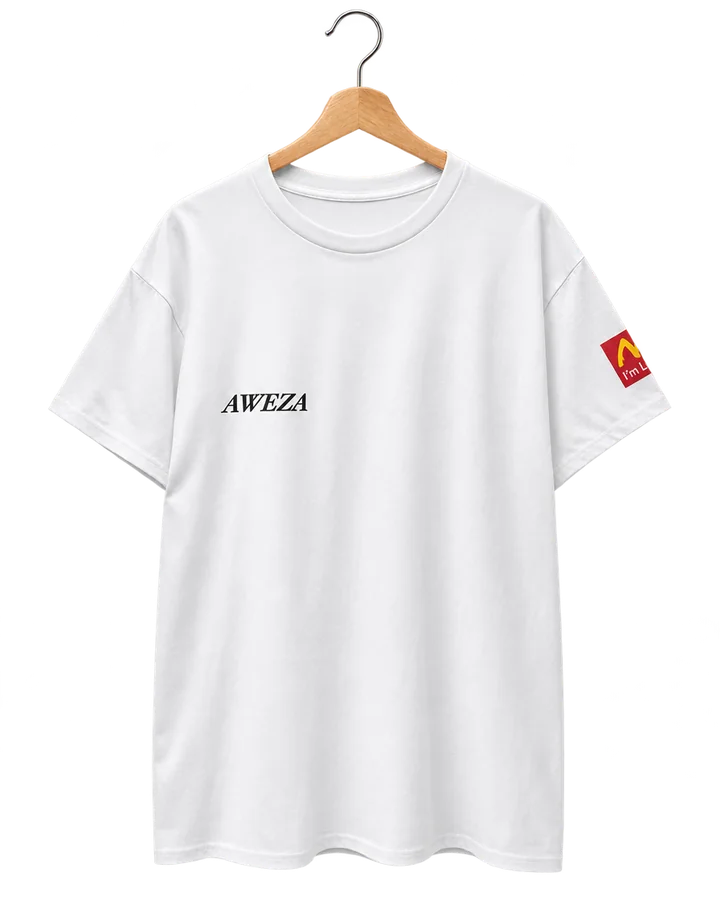
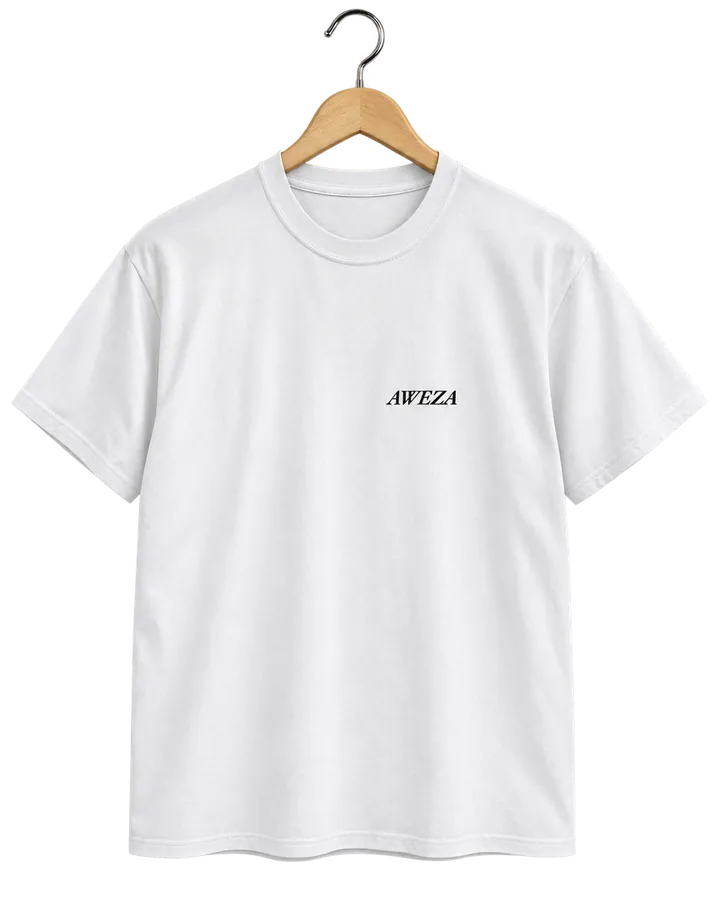
Add Black Out Or Back Out and Time of Your Life tees; refresh Signature Lips
- Two new Printify tees on the shared 3D hanger model: Higgsfield hanging shots (front and back), wrap textures, rail photos
- Signature Lips re-made from its updated Printify mockups (sleeve flag gone); now R450 and in the multi-buy
- Printify variant ids and costs refreshed; sync script maps the new products
- Schema.org list, rail order and docs updated

Claude-Session: https://claude.ai/code/session_01NvykxtFoakGT37DM8pghmL

diff --git a/aweza/index.html b/aweza/index.html
@@ -34,7 +34,7 @@
   <meta name="twitter:image" content="images/brand/og.png">
   <meta name="twitter:image:alt" content="The AWEZA wordmark beside the red lips logo.">
   <script type="application/ld+json">{"@context":"https://schema.org","@type":"Organization","name":"AWEZA","slogan":"Time of your life.","description":"Bold graphic tees designed in South Africa and printed to order.","logo":"images/brand/logo.svg","areaServed":"ZA","sameAs":["https://www.instagram.com/REPLACE_ME","https://www.tiktok.com/@REPLACE_ME","https://www.facebook.com/REPLACE_ME"]}</script>
-  <script type="application/ld+json">{"@context":"https://schema.org","@type":"ItemList","name":"AWEZA graphic tees","itemListElement":[{"@type":"ListItem","position":1,"item":{"@type":"Product","name":"Signature Lips Tee","url":"#/product/signature-lips","image":"images/signature-lips/male-front-5.jpg","brand":{"@type":"Brand","name":"AWEZA"},"offers":{"@type":"Offer","price":"550","priceCurrency":"ZAR","availability":"https://schema.org/InStock"}}},{"@type":"ListItem","position":3,"item":{"@type":"Product","name":"Sweet Cupcake Tee","url":"#/product/sweet-cupcake","image":"images/sweet-cupcake/front.jpg","brand":{"@type":"Brand","name":"AWEZA"},"offers":{"@type":"Offer","price":"450","priceCurrency":"ZAR","availability":"https://schema.org/InStock"}}},{"@type":"ListItem","position":4,"item":{"@type":"Product","name":"CEO of Bad Decisions Tee","url":"#/product/ceo-of-bad-decisions","image":"images/ceo-of-bad-decisions/male-front-5.jpg","brand":{"@type":"Brand","name":"AWEZA"},"offers":{"@type":"Offer","price":"450","priceCurrency":"ZAR","availability":"https://schema.org/InStock"}}},{"@type":"ListItem","position":5,"item":{"@type":"Product","name":"Zero Ex's Tee","url":"#/product/zero-exes","image":"images/zero-exes/male-front-5.jpg","brand":{"@type":"Brand","name":"AWEZA"},"offers":{"@type":"Offer","price":"450","priceCurrency":"ZAR","availability":"https://schema.org/InStock"}}},{"@type":"ListItem","position":6,"item":{"@type":"Product","name":"Captain Save Tee","url":"#/product/captain-save","image":"images/captain-save/male-front-5.jpg","brand":{"@type":"Brand","name":"AWEZA"},"offers":{"@type":"Offer","price":"450","priceCurrency":"ZAR","availability":"https://schema.org/InStock"}}},{"@type":"ListItem","position":7,"item":{"@type":"Product","name":"Need A Hug Tee","url":"#/product/need-a-hug","image":"images/need-a-hug/back.jpg","brand":{"@type":"Brand","name":"AWEZA"},"offers":{"@type":"Offer","price":"450","priceCurrency":"ZAR","availability":"https://schema.org/InStock"}}}]}</script>
+  <script type="application/ld+json">{"@context":"https://schema.org","@type":"ItemList","name":"AWEZA graphic tees","itemListElement":[{"@type":"ListItem","position":1,"item":{"@type":"Product","name":"Signature Lips Tee","url":"#/product/signature-lips","image":"images/signature-lips/male-front-5.jpg","brand":{"@type":"Brand","name":"AWEZA"},"offers":{"@type":"Offer","price":"450","priceCurrency":"ZAR","availability":"https://schema.org/InStock"}}},{"@type":"ListItem","position":3,"item":{"@type":"Product","name":"Sweet Cupcake Tee","url":"#/product/sweet-cupcake","image":"images/sweet-cupcake/front.jpg","brand":{"@type":"Brand","name":"AWEZA"},"offers":{"@type":"Offer","price":"450","priceCurrency":"ZAR","availability":"https://schema.org/InStock"}}},{"@type":"ListItem","position":4,"item":{"@type":"Product","name":"CEO of Bad Decisions Tee","url":"#/product/ceo-of-bad-decisions","image":"images/ceo-of-bad-decisions/male-front-5.jpg","brand":{"@type":"Brand","name":"AWEZA"},"offers":{"@type":"Offer","price":"450","priceCurrency":"ZAR","availability":"https://schema.org/InStock"}}},{"@type":"ListItem","position":5,"item":{"@type":"Product","name":"Zero Ex's Tee","url":"#/product/zero-exes","image":"images/zero-exes/male-front-5.jpg","brand":{"@type":"Brand","name":"AWEZA"},"offers":{"@type":"Offer","price":"450","priceCurrency":"ZAR","availability":"https://schema.org/InStock"}}},{"@type":"ListItem","position":6,"item":{"@type":"Product","name":"Captain Save Tee","url":"#/product/captain-save","image":"images/captain-save/male-front-5.jpg","brand":{"@type":"Brand","name":"AWEZA"},"offers":{"@type":"Offer","price":"450","priceCurrency":"ZAR","availability":"https://schema.org/InStock"}}},{"@type":"ListItem","position":7,"item":{"@type":"Product","name":"Need A Hug Tee","url":"#/product/need-a-hug","image":"images/need-a-hug/back.jpg","brand":{"@type":"Brand","name":"AWEZA"},"offers":{"@type":"Offer","price":"450","priceCurrency":"ZAR","availability":"https://schema.org/InStock"}}},{"@type":"ListItem","position":8,"item":{"@type":"Product","name":"Black Out Or Back Out Tee","url":"#/product/black-out","image":"images/black-out/male-front-5.jpg","brand":{"@type":"Brand","name":"AWEZA"},"offers":{"@type":"Offer","price":"450","priceCurrency":"ZAR","availability":"https://schema.org/InStock"}}},{"@type":"ListItem","position":9,"item":{"@type":"Product","name":"Time of Your Life Tee","url":"#/product/time-of-your-life","image":"images/time-of-your-life/male-front-5.jpg","brand":{"@type":"Brand","name":"AWEZA"},"offers":{"@type":"Offer","price":"450","priceCurrency":"ZAR","availability":"https://schema.org/InStock"}}}]}</script>
   <!-- /HEAD-META -->
   <link rel="preconnect" href="https://fonts.googleapis.com">
   <link rel="preconnect" href="https://fonts.gstatic.com" crossorigin>

diff --git a/aweza/js/rail3d.js b/aweza/js/rail3d.js
@@ -19,7 +19,7 @@
      Two fronts use the real Printify hanger photo instead, with its white background cut away.
      top/bottom/cx: where the hook top, the hem and the centre sit in the image, as fractions. */
   const PH = "images/hang-real/", PR = "images/hang/";
-  const M = {"captain-save-back": {"top": 0.0125, "bottom": 0.975, "cx": 0.4994}, "ceo-of-bad-decisions-back": {"top": 0.0098, "bottom": 0.9696, "cx": 0.4989}, "ceo-of-bad-decisions-front": {"top": 0.0116, "bottom": 0.9696, "cx": 0.4994}, "need-a-hug-back": {"top": 0.0116, "bottom": 0.9812, "cx": 0.4994}, "signature-lips-back": {"top": 0.0107, "bottom": 0.9812, "cx": 0.4961}, "signature-lips-front": {"top": 0.0107, "bottom": 0.9696, "cx": 0.4994}, "sweet-cupcake-front": {"top": 0.0071, "bottom": 0.9723, "cx": 0.4994}, "zero-exes-back": {"top": 0.0143, "bottom": 0.983, "cx": 0.4961}, "zero-exes-front": {"top": 0.0125, "bottom": 0.9696, "cx": 0.4989}, "captain-save-front-real": {"top": 0.0, "bottom": 0.97, "cx": 0.5258}, "need-a-hug-front-real": {"top": 0.0, "bottom": 0.97, "cx": 0.5258}};
+  const M = {"captain-save-back": {"top": 0.0125, "bottom": 0.975, "cx": 0.4994}, "ceo-of-bad-decisions-back": {"top": 0.0098, "bottom": 0.9696, "cx": 0.4989}, "ceo-of-bad-decisions-front": {"top": 0.0116, "bottom": 0.9696, "cx": 0.4994}, "need-a-hug-back": {"top": 0.0116, "bottom": 0.9812, "cx": 0.4994}, "signature-lips-back": {"top": 0.0133, "bottom": 0.9767, "cx": 0.4833}, "signature-lips-front": {"top": 0.01, "bottom": 0.9578, "cx": 0.4896}, "sweet-cupcake-front": {"top": 0.0071, "bottom": 0.9723, "cx": 0.4994}, "zero-exes-back": {"top": 0.0143, "bottom": 0.983, "cx": 0.4961}, "zero-exes-front": {"top": 0.0125, "bottom": 0.9696, "cx": 0.4989}, "captain-save-front-real": {"top": 0.0, "bottom": 0.97, "cx": 0.5258}, "need-a-hug-front-real": {"top": 0.0, "bottom": 0.97, "cx": 0.5258}, "black-out-front": {"top": 0.0122, "bottom": 0.9656, "cx": 0.4882}, "black-out-back": {"top": 0.0078, "bottom": 0.9733, "cx": 0.4868}, "time-of-your-life-front": {"top": 0.02, "bottom": 0.9656, "cx": 0.4938}, "time-of-your-life-back": {"top": 0.0089, "bottom": 0.9744, "cx": 0.484}};
   const shot = id => ({ src: PH + id + ".webp", m: M[id], aspect: 0.8, real: false });
   // real Printify hanger photo, white background cut away so it sits cleanly on the wall
   const real = id => ({ src: PH + id + "-front-real.webp", m: M[id + "-front-real"], aspect: 640 / 801, real: false });
@@ -30,6 +30,8 @@
     "sweet-cupcake":        { front: shot("sweet-cupcake-front") },
     "need-a-hug":           { front: real("need-a-hug"),                 back: shot("need-a-hug-back") },
     "captain-save":         { front: real("captain-save"),               back: shot("captain-save-back") },
+    "black-out":           { front: shot("black-out-front"),            back: shot("black-out-back") },
+    "time-of-your-life":   { front: shot("time-of-your-life-front"),    back: shot("time-of-your-life-back") },
   };
   Object.values(PHOTOS).forEach(p => Object.values(p).forEach(v => { const i = new Image(); i.decoding = "async"; i.src = v.src; })); // warm the cache
 

diff --git a/aweza/data/products.js b/aweza/data/products.js
@@ -33,10 +33,10 @@ AW.collections = [
 
   AW.products = [
     {
-      id: "signature-lips", name: "Signature Lips Tee", collection: "signature", price: 550, noDeal: true,
+      id: "signature-lips", name: "Signature Lips Tee", collection: "signature", price: 450,
       colourName: "White", badge: "Signature", sizes: STD, fit: "Heavyweight cotton, classic fit",
       images: img("signature-lips", BACK_FIRST),
-      summary: "The one that started it. Big red lips with AWEZA on the teeth across the back, a small wordmark on the chest and a flag on the sleeve.",
+      summary: "The one that started it. Big red lips with AWEZA on the teeth across the back, and a small wordmark on the chest.",
     },
     {
       id: "sweet-cupcake", name: "Sweet Cupcake Tee", collection: "signature", price: 450,
@@ -67,6 +67,18 @@ AW.collections = [
       colourName: "White", sizes: STD, fit: "Heavyweight cotton, classic fit",
       images: img("need-a-hug", FRONT_FIRST),
       summary: "Bold black type across the chest that says exactly what it means. Small AWEZA mark on the back, hugs not guaranteed.",
+    },
+    {
+      id: "black-out", name: "Black Out Or Back Out Tee", collection: "bad-decisions", price: 450,
+      colourName: "White", sizes: STD, fit: "Heavyweight cotton, classic fit",
+      images: img("black-out", BACK_FIRST),
+      summary: "A small black wordmark up front. On the back, two bottles and a choice: black out, or back out. Decide wisely.",
+    },
+    {
+      id: "time-of-your-life", name: "Time of Your Life Tee", collection: "signature", price: 450,
+      colourName: "White", sizes: STD, fit: "Heavyweight cotton, classic fit",
+      images: img("time-of-your-life", BACK_FIRST),
+      summary: "A small blue AWEZA on the chest. On the back, the brand line wrapped up in loud blue: time of your life, sealed and ready.",
     },
   ];
 })();

diff --git a/aweza/js/rail.js b/aweza/js/rail.js
@@ -6,7 +6,7 @@
 (() => {
   const AW = window.AW;
   const esc = AW.esc;
-  const ORDER = ["signature-lips", "ceo-of-bad-decisions", "zero-exes", "captain-save", "need-a-hug", "sweet-cupcake"];
+  const ORDER = ["signature-lips", "ceo-of-bad-decisions", "zero-exes", "captain-save", "need-a-hug", "sweet-cupcake", "black-out", "time-of-your-life"];
   const reduced = () => window.matchMedia("(prefers-reduced-motion: reduce)").matches;
 
   /* The bag, checkout and help pages call these if present. No page-wide motion system any more. */

diff --git a/aweza/docs/DEPLOY.md b/aweza/docs/DEPLOY.md
@@ -101,8 +101,8 @@ Printify bills you in **US dollars**; customers pay in **Rand**. Current numbers
 - Product cost per tee: about **US$15.93 to $22.35** for S to XL on the Gildan 5000 designs, up to about $26.16 for 5XL; the Mini Lips Bella+Canvas 3001 is $11.29 to $20.24. Exact per-size costs are in `data/printify-variants.json` (`cost_usd_cents`).
 - Shipping to South Africa (provider 99, "rest of the world" rate): **US$10.39 for the first item, US$4.00 for each extra item**, about 10 days handling plus transit.
 - Prices checked against the live Printify costs on 9 November 2026 at **R16.50 per US$** (market rate), with a safety margin at **R17.00** for bank currency-conversion fees:
-  - Pricing as of 10 November 2026: every tee R450 except Signature Lips R550 (it costs about R95 more to print and is left out of the multi-buy). Multi-buy: 2 for R800, 3 for R1 200, best mix applied automatically, size extras (+R40 2XL, +R70 3XL to 5XL) on top. Delivery R179, free from R2 000 after discounts. Refer a friend: ?ref=CODE gives R50 off an order of R450 or more.
-  - Profit per order (R17 per US$, Yoco 3.39% card fee): 1 tee R147 (23%); 2 tees R133 (14%); 3 tees R167 (12%); 4 tees R201 (11%); 5 tees with free delivery R62 (3%); 1 Signature Lips R148 (20%); a friend-code single tee R98 (17%).
+  - Pricing as of 10 November 2026: every tee R450, all eight designs in the multi-buy (Signature Lips dropped its sleeve print on 10 November, so it now costs the same to make as the rest). Multi-buy: 2 for R800, 3 for R1 200, best mix applied automatically, size extras (+R40 2XL, +R70 3XL to 5XL) on top. Delivery R179, free from R2 000 after discounts. Refer a friend: ?ref=CODE gives R50 off an order of R450 or more.
+  - Profit per order (R17 per US$, Yoco 3.39% card fee): 1 tee R147 (23%); 2 tees R133 (14%); 3 tees R167 (12%); 4 tees R201 (11%); 5 tees with free delivery R62 (3%); 1 Signature Lips R161 (26%); a friend-code single tee R98 (17%).
   - Orders above four tees with free delivery are thin. If the rand weakens past about R20 per US$, re-check before running ads.
   - The deal logic lives in `data/products.js` (`deals`, `referral`, `drop`, `noDeal`) and is applied by `js/core.js` in the browser and `netlify/functions/_lib/catalogue.mjs` on the server. Yoco gets the total discount as `totalDiscount`.
   - Refer a friend: the friend's code is stored on the order (Yoco metadata, field `r`). The referrer's R50 is given by hand for now: ask for their code, then check the logs.
